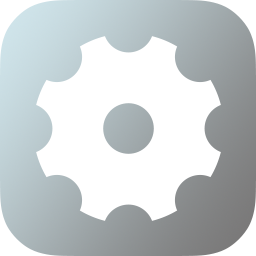
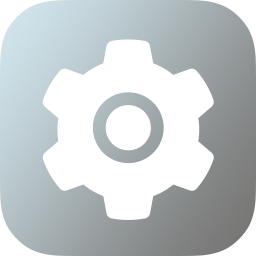
update

Changed region(s): [[0.125, 0.125, 0.875, 0.875], [0.3438, 0.3438, 0.6562, 0.6562]]

diff --git a/depiction/web/com.aohuiliu.nicephotos.html b/depiction/web/com.aohuiliu.nicephotos.html
@@ -46,7 +46,7 @@
                 </div>
                 <div class="cell">
                     <div class="title">Version</div>
-                    <div class="text">1.0.0</div>
+                    <div class="text">1.0.1</div>
                     <br><br>
                 </div>
                 <div class="cell">
@@ -62,7 +62,13 @@
             </div>
         </div>
         <div class="changelog">
-            This package has no changelog.
+            <div class="changelog_entry">
+                <h4>1.0.1</h4>
+                <div class="md_view"><ul>
+<li>Update icon</li>
+</ul>
+</div>
+            </div>
         </div>
         <div class="caption center footer">2020 © AohuiLiu&#x27;s Repo, Powered by Silica</div>
     </div>

diff --git a/depiction/web/com.aohuiliu.nicesettings.html b/depiction/web/com.aohuiliu.nicesettings.html
@@ -46,7 +46,7 @@
                 </div>
                 <div class="cell">
                     <div class="title">Version</div>
-                    <div class="text">1.0.1</div>
+                    <div class="text">1.0.2</div>
                     <br><br>
                 </div>
                 <div class="cell">
@@ -62,7 +62,13 @@
             </div>
         </div>
         <div class="changelog">
-            This package has no changelog.
+            <div class="changelog_entry">
+                <h4>1.0.2</h4>
+                <div class="md_view"><ul>
+<li>Update icon</li>
+</ul>
+</div>
+            </div>
         </div>
         <div class="caption center footer">2020 © AohuiLiu&#x27;s Repo, Powered by Silica</div>
     </div>
